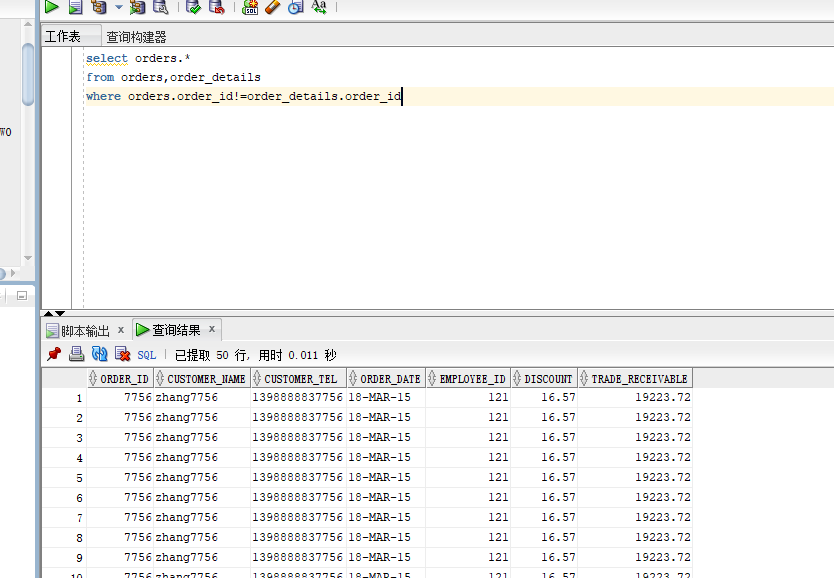
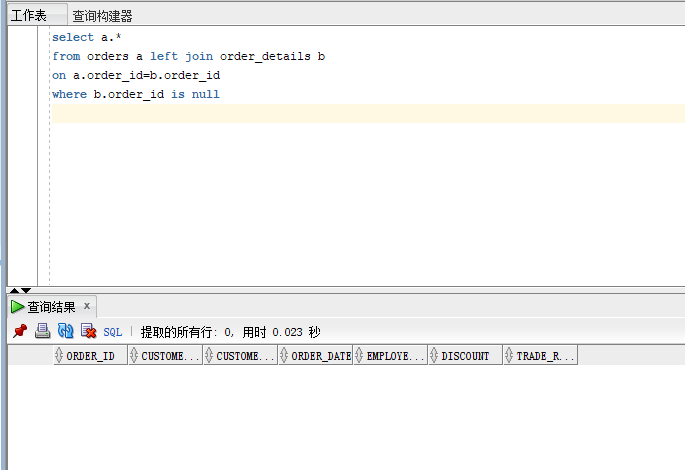
test4

Changed region(s): [[0.0, 0.0, 1.0, 1.0], [0.092, 0.9234, 0.1226, 1.0]]

diff --git a/test4/README.md b/test4/README.md
@@ -1,6 +1,5 @@
 # 实验4：对象管理
-
-- ## **查询某个员工的信息**: 
+- ## *查询某个员工的信息*: 
 ```aidl
 select * from employees where employee_id=1;
 ```  
@@ -36,8 +35,9 @@ where a.order_id=b.order_id and b.product_name=c.product_name;
 - ## **查询出所有空订单，即没有订单详单的订单。**  
 ```aidl
 select orders.*
-from orders,order_details
-where orders.order_id!=order_details.order_id
+from orders a left join order_details b
+on a.order_id=b.order_id
+where b.order_id is null
 ```
 ![](not.png)  
 - ## **查询部门表，同时显示部门的负责人姓名**  
